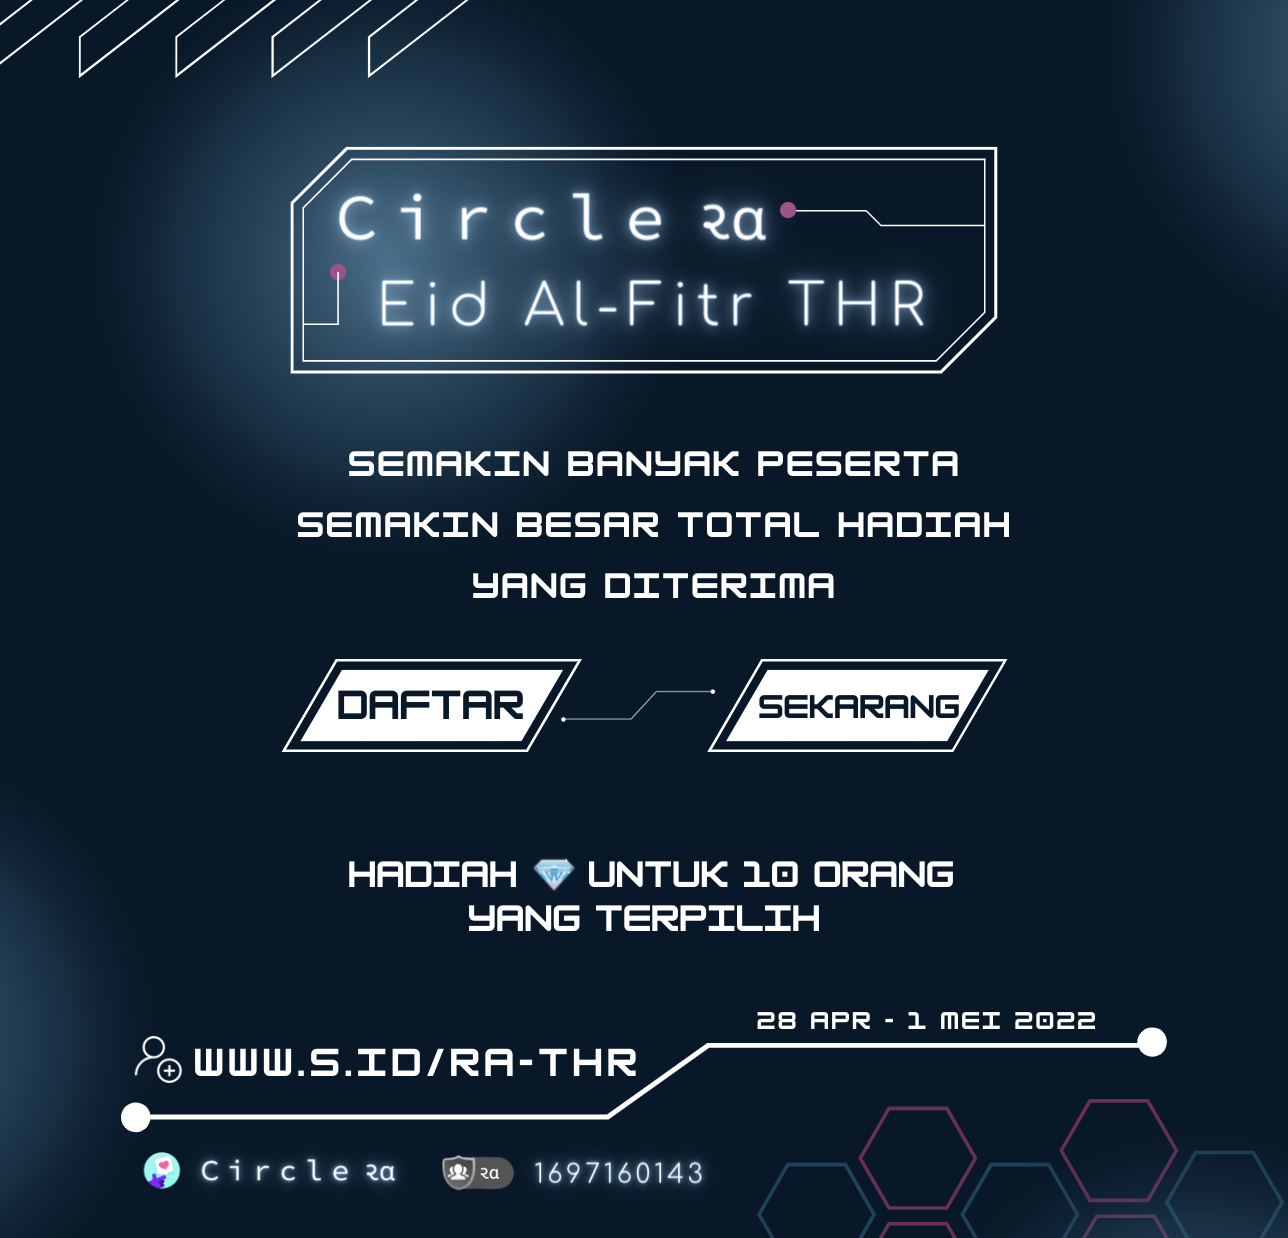
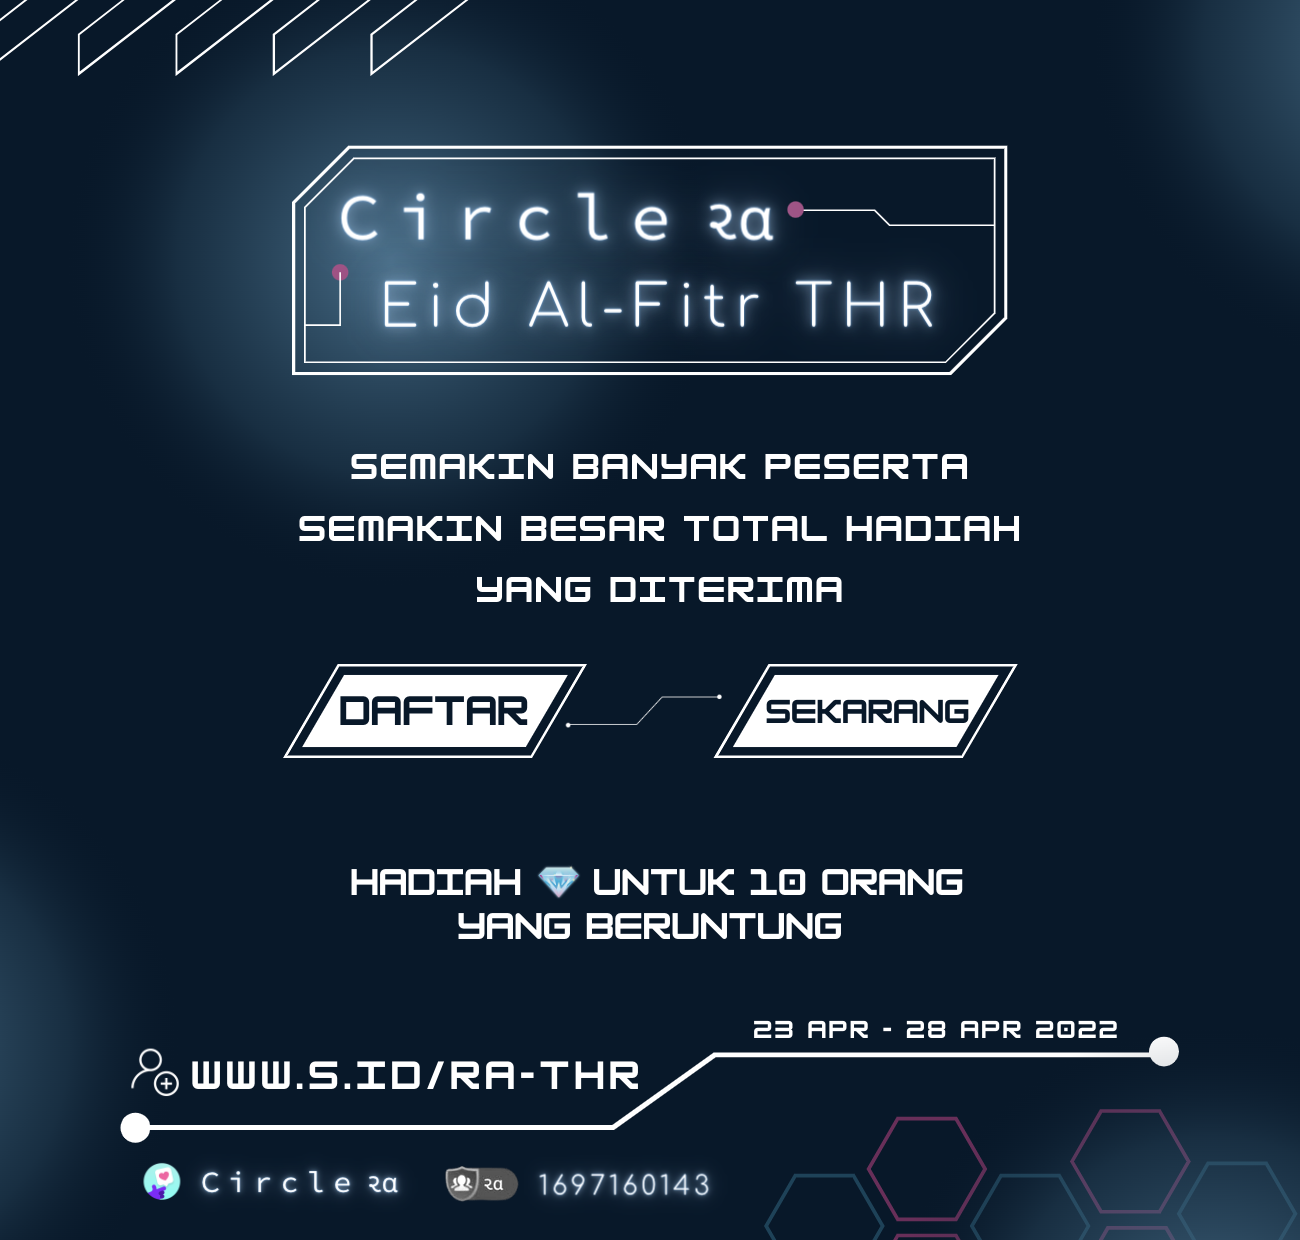
V1

diff --git a/src/components/ThrRa.tsx b/src/components/ThrRa.tsx
@@ -44,7 +44,7 @@ export default function ThrRa(props: any) {
             <hr />
             <ol>
               <li>
-                Cukup Daftar Saja Tampa Di Pungut Biaya / Gift Sepeserpun.
+                Cukup Daftar Saja Tanpa Di Pungut Biaya / Gift Sepeserpun.
               </li>
               <li>Setiap Orang hanya bisa 1x ikut & Cuma 1 Akun</li>
               <li>

diff --git a/src/pages/RaThr.tsx b/src/pages/RaThr.tsx
@@ -26,7 +26,7 @@ function RaThr() {
           {/* Section 1 */}
           <About
             title="Ｃｉｒｃｌｅ ૨α  -  THR"
-            desc="Periode 28 April - 2 Mei 2022"
+            desc="Periode 23 April - 28 April 2022"
           />
 
           {/* Section 3 */}

diff --git a/src/pages/Landing.tsx b/src/pages/Landing.tsx
@@ -11,7 +11,7 @@ function Landing() {
   // });
 
   Swal.fire({
-    imageUrl: "/img/ra-thr-banner.png",
+    imageUrl: "/img/ra-thr.png",
     showDenyButton: true,
     confirmButtonText: "DAFTAR",
     confirmButtonColor: "#8d3523",
